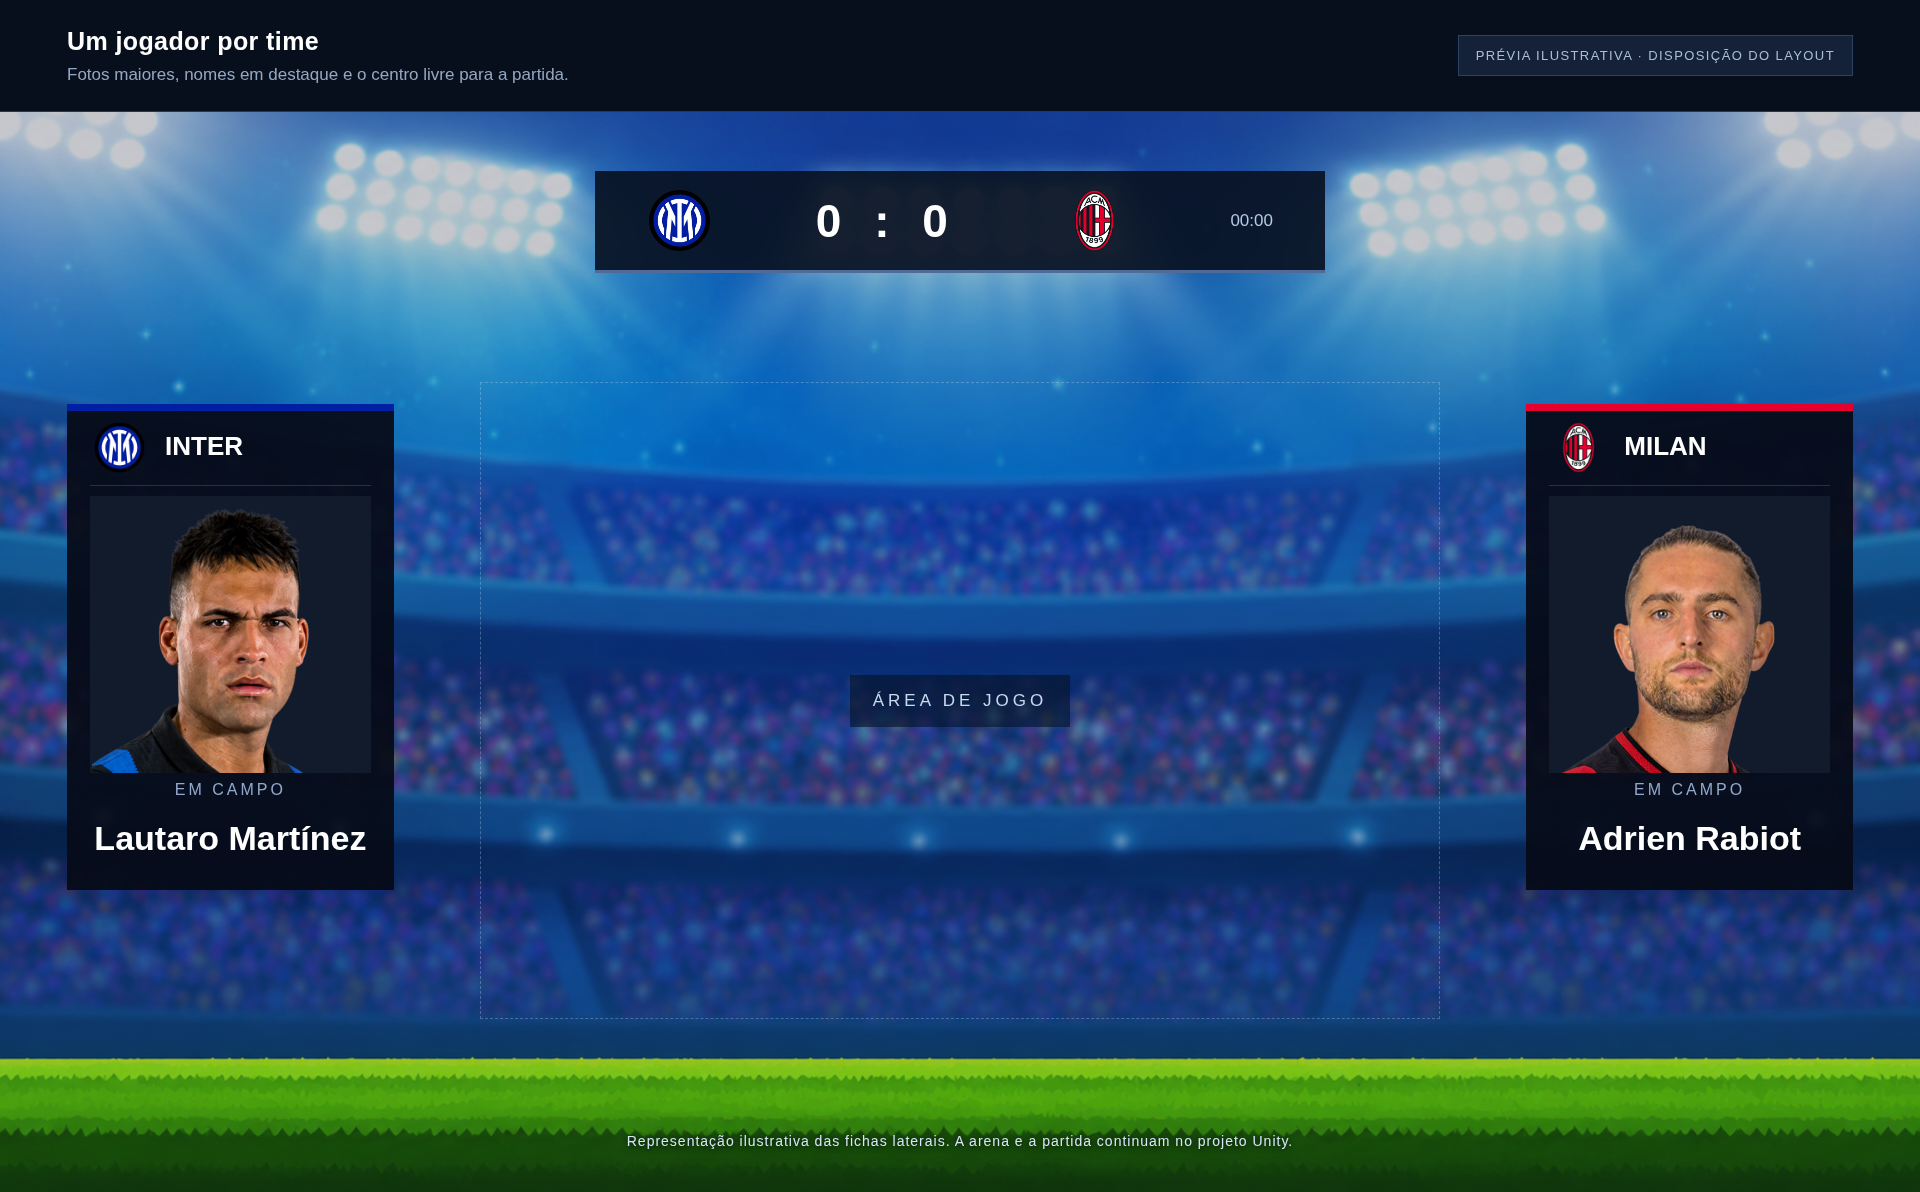
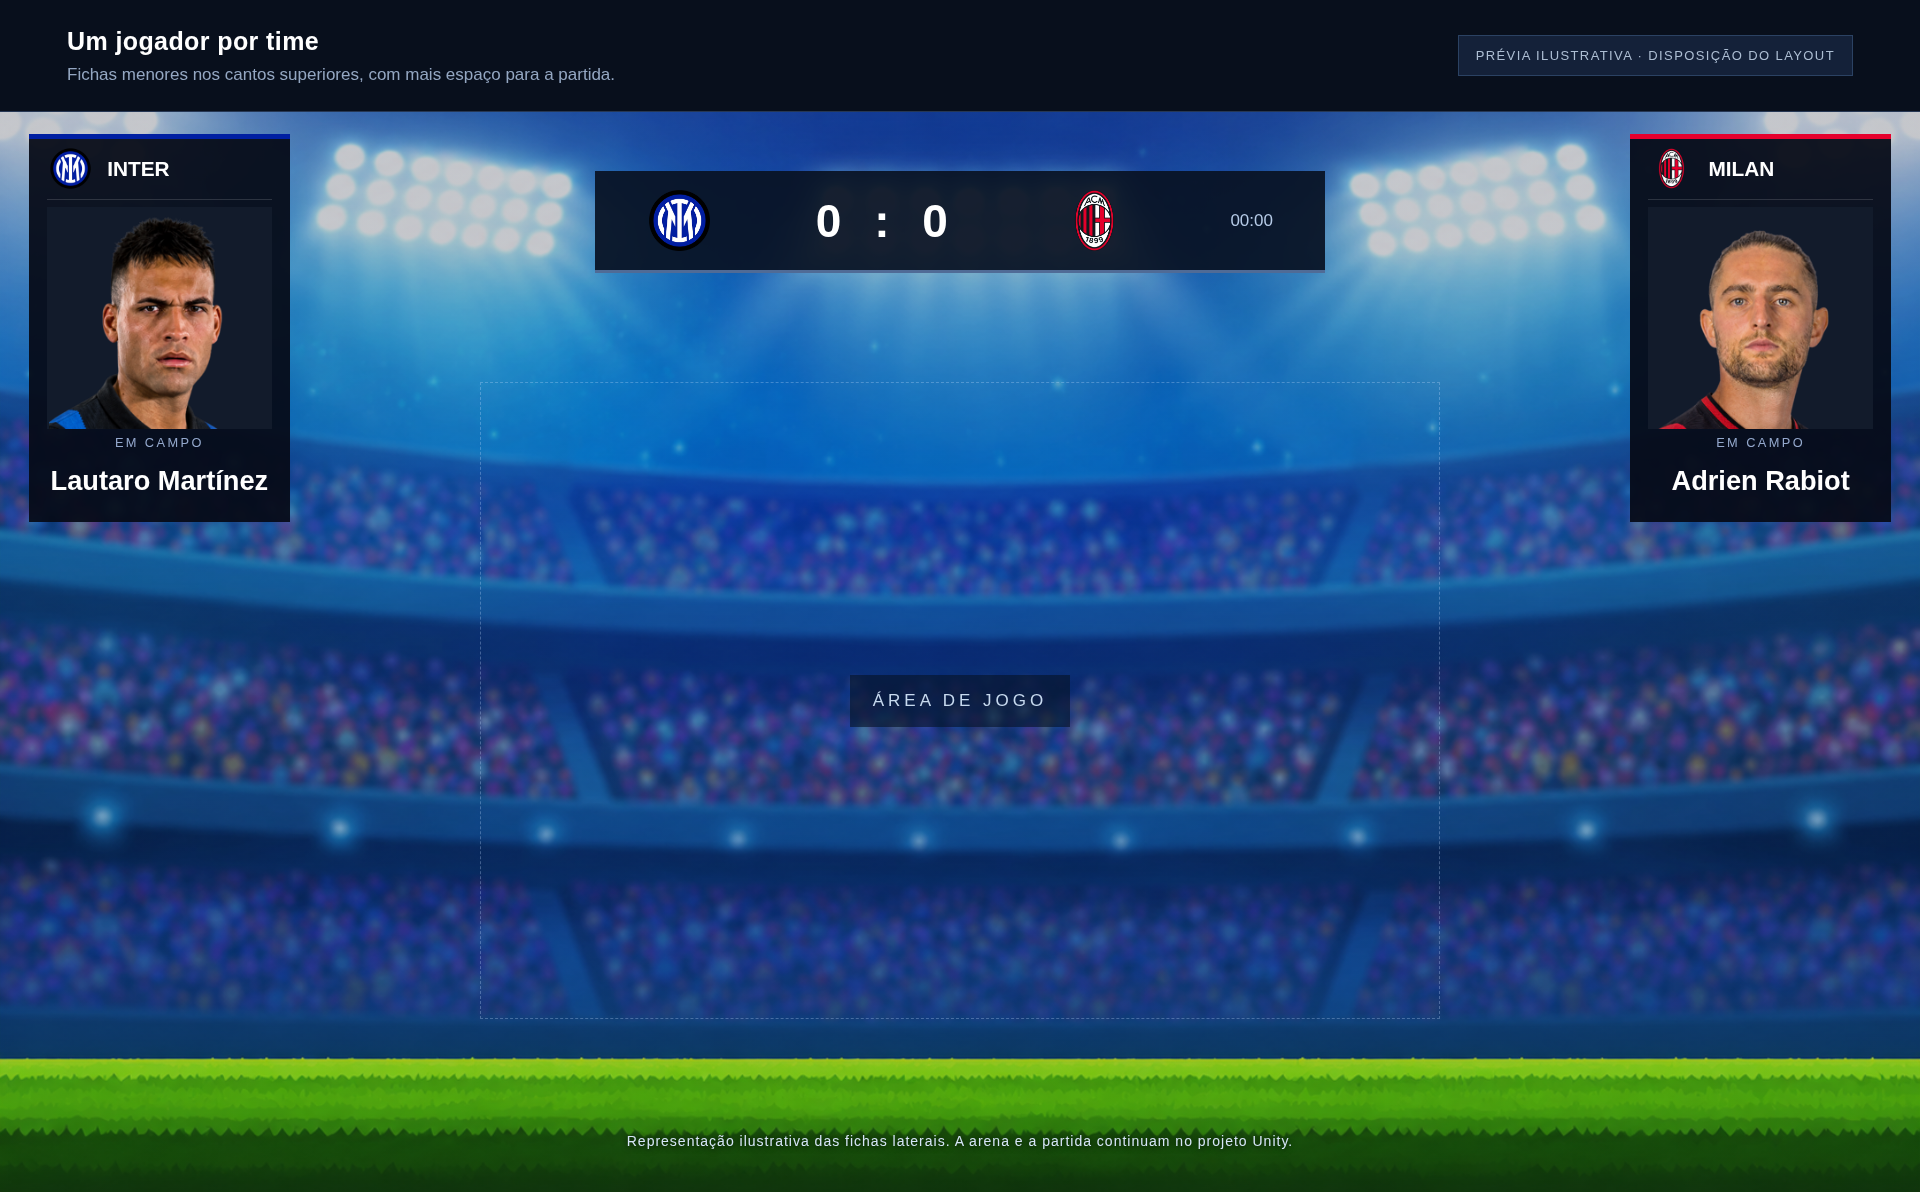
Move fichas dos jogadores para os cantos superiores e reduz tamanho

Changed region(s): [[0.0, 0.0621, 0.2812, 0.745], [0.7812, 0.0931, 1.0, 0.745]]

diff --git a/Assets/Scripts/LayoutJogadorUnicoUI.cs b/Assets/Scripts/LayoutJogadorUnicoUI.cs
@@ -3,7 +3,7 @@ using TMPro;
 using UnityEngine;
 using UnityEngine.UI;
 
-/// <summary>One representative per team, with the match arena left unobstructed.</summary>
+/// <summary>Compact representative cards anchored to the upper corners.</summary>
 [DisallowMultipleComponent]
 public sealed class LayoutJogadorUnicoUI : MonoBehaviour
 {
@@ -34,9 +34,9 @@ public sealed class LayoutJogadorUnicoUI : MonoBehaviour
             raiz.gameObject.AddComponent<LayoutJogadorUnicoUI>();
         layout.fonte = fonte != null ? fonte : TMP_Settings.defaultFontAsset;
         layout.fichaA = layout.CriarFicha(
-            "Time_A", new Vector2(0.035f, 0.28f), new Vector2(0.205f, 0.73f));
+            "Time_A", new Vector2(0.015f, 0.62f), new Vector2(0.151f, 0.98f));
         layout.fichaB = layout.CriarFicha(
-            "Time_B", new Vector2(0.795f, 0.28f), new Vector2(0.965f, 0.73f));
+            "Time_B", new Vector2(0.849f, 0.62f), new Vector2(0.985f, 0.98f));
         raiz.gameObject.SetActive(false);
         return layout;
     }
@@ -67,27 +67,27 @@ public sealed class LayoutJogadorUnicoUI : MonoBehaviour
         ficha.escudo = CriarImagem("Escudo", bloco,
             new Vector2(0.07f, 0.855f), new Vector2(0.25f, 0.965f));
         ficha.equipe = CriarTexto("Equipe", bloco,
-            new Vector2(0.30f, 0.85f), new Vector2(0.93f, 0.97f), 26f);
+            new Vector2(0.30f, 0.85f), new Vector2(0.93f, 0.97f), 20.8f);
         ficha.equipe.alignment = TextAlignmentOptions.MidlineLeft;
 
         Image moldura = CriarImagem("Fundo_Foto", bloco,
             new Vector2(0.07f, 0.24f), new Vector2(0.93f, 0.81f));
         moldura.color = new Color(0.07f, 0.105f, 0.17f, 1f);
         ficha.semFoto = CriarTexto("Sem_Foto", bloco,
-            new Vector2(0.09f, 0.28f), new Vector2(0.91f, 0.77f), 58f);
+            new Vector2(0.09f, 0.28f), new Vector2(0.91f, 0.77f), 46.4f);
         ficha.semFoto.richText = true;
         ficha.semFoto.color = new Color(0.58f, 0.66f, 0.80f, 1f);
         ficha.foto = CriarImagem("Foto_Jogador", bloco,
             new Vector2(0.07f, 0.24f), new Vector2(0.93f, 0.81f));
 
         TextMeshProUGUI legenda = CriarTexto("Legenda", bloco,
-            new Vector2(0.07f, 0.181f), new Vector2(0.93f, 0.23f), 16f);
+            new Vector2(0.07f, 0.181f), new Vector2(0.93f, 0.23f), 12.8f);
         legenda.text = "EM CAMPO";
-        legenda.characterSpacing = 3f;
+        legenda.characterSpacing = 2.4f;
         legenda.fontStyle = FontStyles.Normal;
         legenda.color = new Color(0.58f, 0.66f, 0.80f, 1f);
         ficha.jogador = CriarTexto("Nome_Jogador", bloco,
-            new Vector2(0.07f, 0.035f), new Vector2(0.93f, 0.177f), 34f);
+            new Vector2(0.07f, 0.035f), new Vector2(0.93f, 0.177f), 27.2f);
         return ficha;
     }
 

diff --git a/README.md b/README.md
@@ -8,7 +8,7 @@ A imagem ilustra a disposição das fichas; não é uma captura do jogo em execu
 
 ## O que mudou
 
-- Cada equipe apresenta uma ficha lateral com foto ampliada, nome do atleta, escudo, nome e cor do time.
+- Cada equipe apresenta uma ficha compacta no seu canto superior, com foto, nome do atleta, escudo, nome e cor do time, deixando mais espaço para os elementos da arena.
 - Um único atleta é escolhido por equipe para cada partida. O mesmo atleta representa todos os lançamentos daquele time.
 - O elenco completo permanece cadastrado para permitir outras escolhas nas partidas seguintes.
 - Os antigos espaços dos outros dois jogadores ficam ocultos automaticamente.
